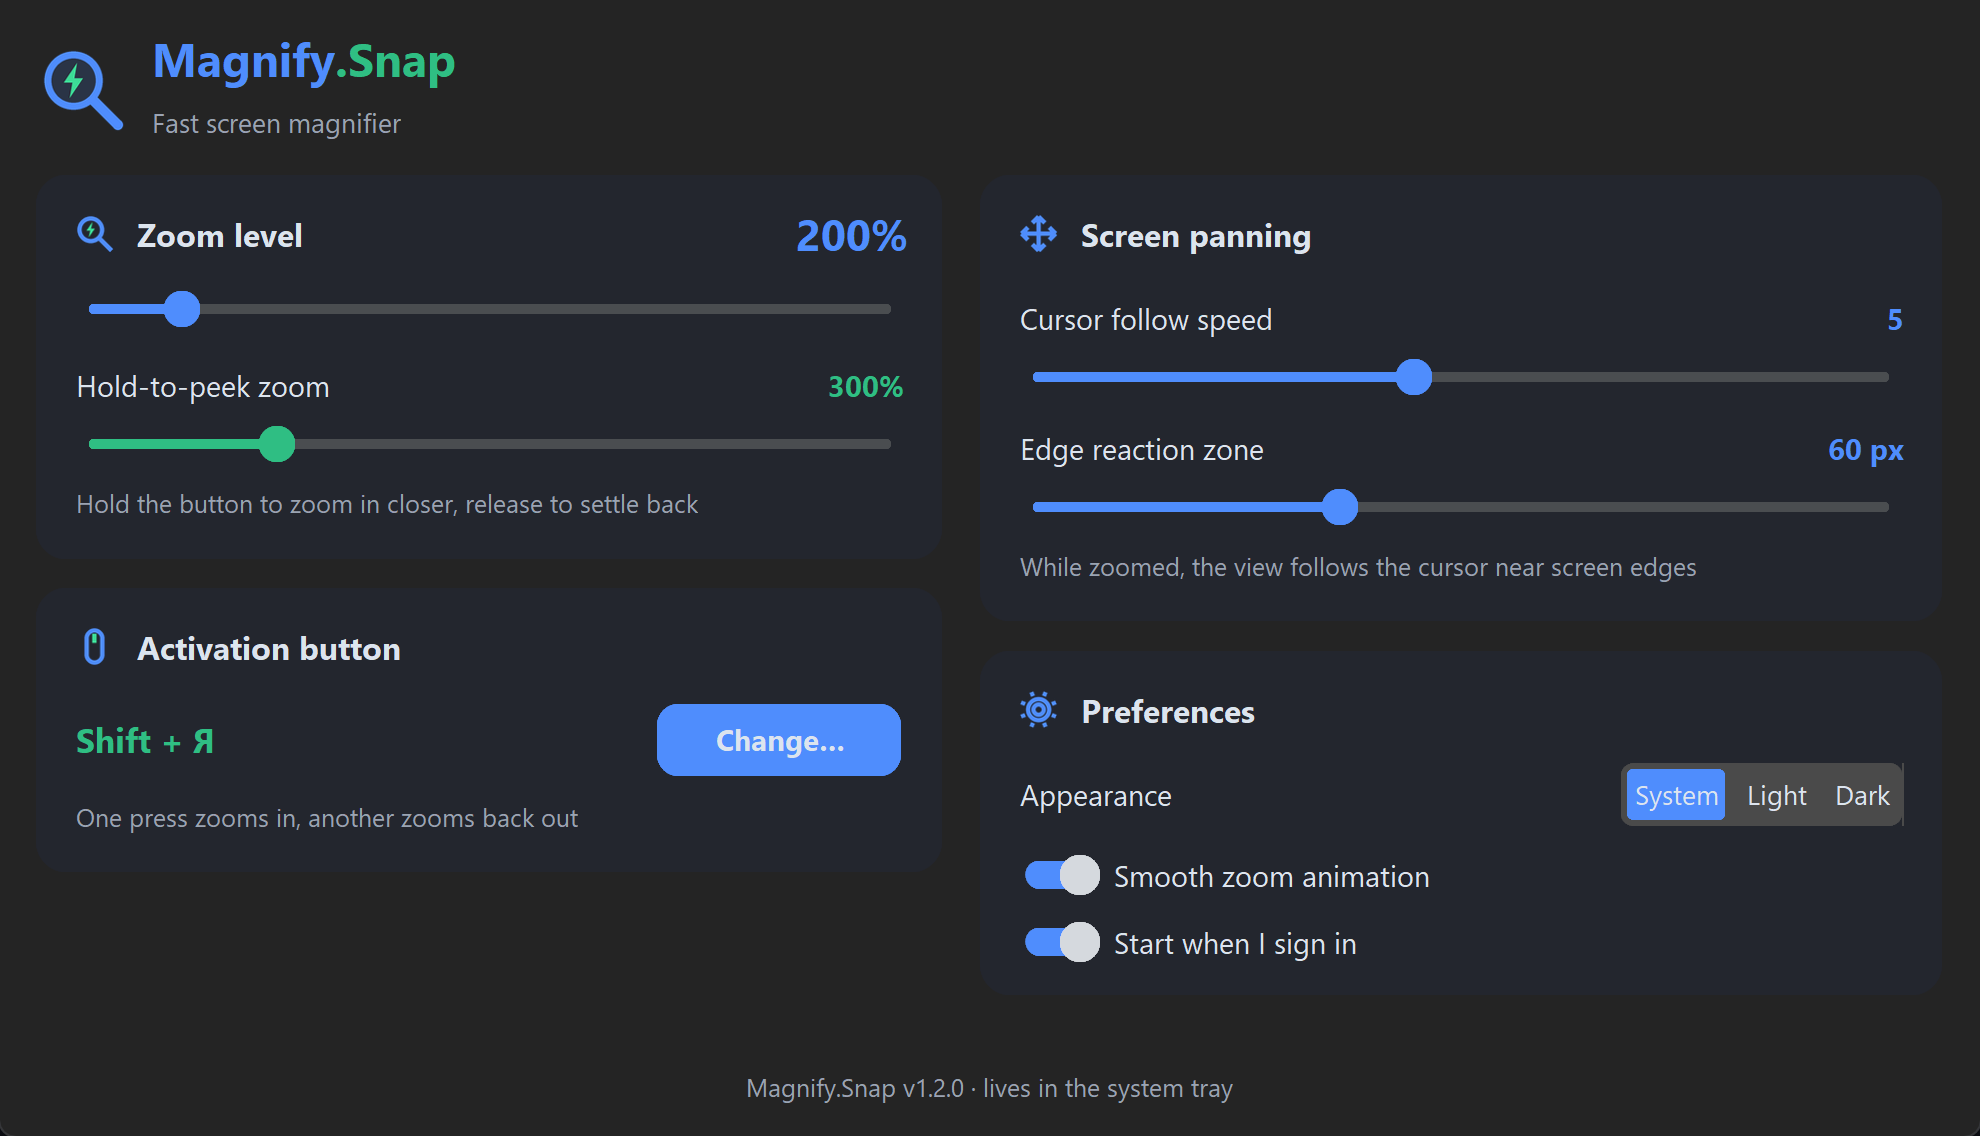
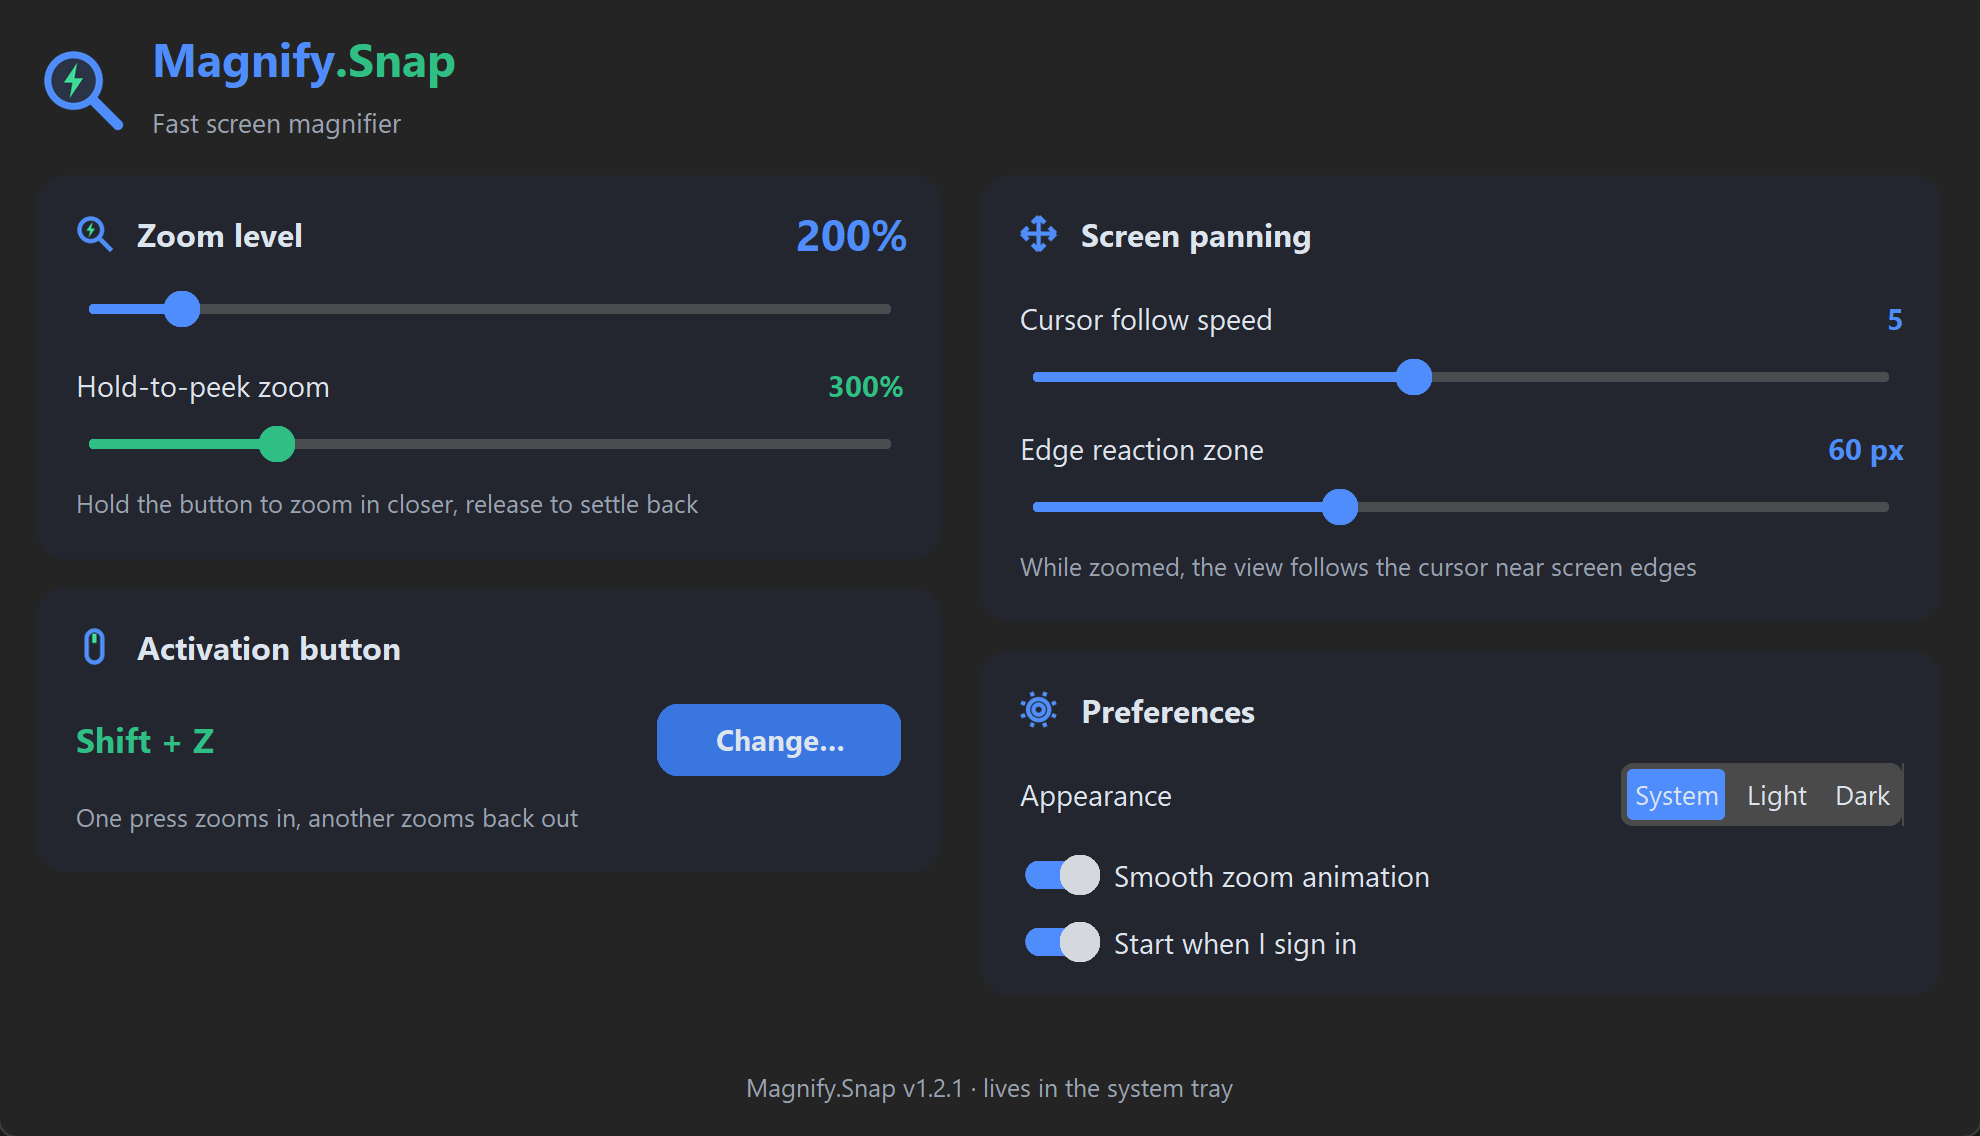
feat: peek anchors at cursor and restores the pre-peek viewport on release; fresh settings screenshot

Changed region(s): [[0.3081, 0.6162, 0.4621, 0.7086]]

diff --git a/fast_magnifier/magnifier_windows.py b/fast_magnifier/magnifier_windows.py
@@ -187,21 +187,50 @@ class WindowsMagnifier(MagnifierBase):
         self._set(mag, offx, offy)
 
         # основной цикл: следование за курсором у краёв экрана
+        peek_saved = None    # положение окна до подглядывания
+        restoring = False    # возвращаемся к сохранённому положению
+        prev_boost = None
         while self.active:
             boost = self._boost
+            if boost is not None and prev_boost is None:
+                peek_saved = (offx, offy)   # запомнить вид до буста
+                restoring = False
+            elif boost is None and prev_boost is not None:
+                restoring = peek_saved is not None
+            prev_boost = boost
+
             target = float(boost) if boost else float(self.config.zoom_factor)
-            if abs(target - mag) > 0.004:  # живой зум: настройки или peek-буст
-                mag += (target - mag) * 0.2
-                if abs(target - mag) < 0.01:
-                    mag = target
+            zooming = abs(target - mag) > 0.004
+            if zooming:  # живой зум: peek-буст или слайдер настроек
+                new_mag = mag + (target - mag) * 0.2
+                if abs(target - new_mag) < 0.01:
+                    new_mag = target
+                if not restoring:
+                    # якорим на курсор: точка под ним остаётся на месте,
+                    # как при первоначальном включении лупы
+                    cx, cy = self._cursor()
+                    offx = cx - (cx - offx) * (mag / new_mag)
+                    offy = cy - (cy - offy) * (mag / new_mag)
+                mag = new_mag
                 offx = self._clamp(offx, vx, vx + vw - vw / mag)
                 offy = self._clamp(offy, vy, vy + vh - vh / mag)
 
-            cx, cy = self._cursor()
-            sx = (cx - offx) * mag  # позиция курсора на физическом экране
-            sy = (cy - offy) * mag
-            offx = self._pan_axis(sx, vw, offx, mag, vx, vw)
-            offy = self._pan_axis(sy, vh, offy, mag, vy, vh)
+            if restoring:
+                # плавный возврат к виду, каким он был до подглядывания
+                tx = self._clamp(peek_saved[0], vx, vx + vw - vw / mag)
+                ty = self._clamp(peek_saved[1], vy, vy + vh - vh / mag)
+                offx += (tx - offx) * 0.2
+                offy += (ty - offy) * 0.2
+                if not zooming and abs(tx - offx) < 1 and abs(ty - offy) < 1:
+                    offx, offy = tx, ty
+                    restoring = False
+                    peek_saved = None
+            elif not zooming:  # пан заморожен на время зум-перехода
+                cx, cy = self._cursor()
+                sx = (cx - offx) * mag  # позиция курсора на физическом экране
+                sy = (cy - offy) * mag
+                offx = self._pan_axis(sx, vw, offx, mag, vx, vw)
+                offy = self._pan_axis(sy, vh, offy, mag, vy, vh)
 
             self._set(mag, offx, offy)
             time.sleep(FRAME_DT)

diff --git a/fast_magnifier/__init__.py b/fast_magnifier/__init__.py
@@ -1,3 +1,3 @@
 APP_NAME = "Magnify.Snap"
 APP_ID = "MagnifySnap"
-VERSION = "1.2.1"
+VERSION = "1.2.2"

diff --git a/README.md b/README.md
@@ -20,9 +20,9 @@ already have on the mouse.
 > a magnifier that gets out of your way.
 
 <p align="center">
-  <a href="https://github.com/violet2code/magnify-snap/releases/download/v1.2.1/MagnifySnap-1.2.1-windows-x64.exe"><img src="https://img.shields.io/badge/⬇%20Download%20for%20Windows-x64%20.exe-4f8dfd?style=for-the-badge" alt="Download for Windows"></a>
+  <a href="https://github.com/violet2code/magnify-snap/releases/download/v1.2.2/MagnifySnap-1.2.2-windows-x64.exe"><img src="https://img.shields.io/badge/⬇%20Download%20for%20Windows-x64%20.exe-4f8dfd?style=for-the-badge" alt="Download for Windows"></a>
   &nbsp;
-  <a href="https://github.com/violet2code/magnify-snap/releases/download/v1.2.1/MagnifySnap-1.2.1-linux-x64.tar.gz"><img src="https://img.shields.io/badge/⬇%20Download%20for%20Linux-x64%20.tar.gz-3ddc97?style=for-the-badge" alt="Download for Linux"></a>
+  <a href="https://github.com/violet2code/magnify-snap/releases/download/v1.2.2/MagnifySnap-1.2.2-linux-x64.tar.gz"><img src="https://img.shields.io/badge/⬇%20Download%20for%20Linux-x64%20.tar.gz-3ddc97?style=for-the-badge" alt="Download for Linux"></a>
 </p>
 
 <p align="center">
